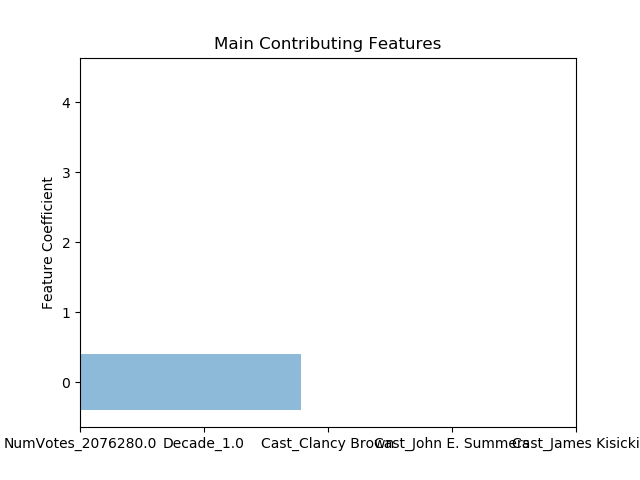
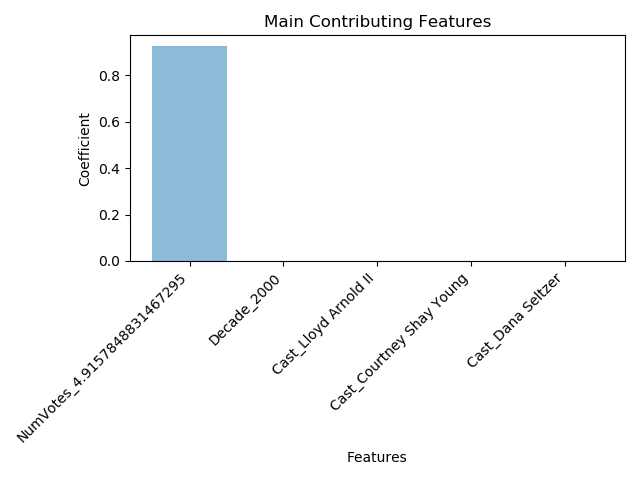
Details changed
Apply log to numVotes, changed the figure, add some details to html

diff --git a/NetflixPrize3/templates/home.html b/NetflixPrize3/templates/home.html
@@ -69,20 +69,25 @@
                 document.getElementById(div_id).innerHTML = text;
             }
             function feature_boolean(div_id) {
-                var text = document.getElementById(div_id).innerHTML
+                var text = document.getElementById(div_id).innerHTML;
+                var fieldValue;
                 if(div_id == "year") {
-                    fieldName = "startYear"
+                    fieldName = "startYear";
+                    fieldValue = {{ movieData | safe }}[fieldName];
                 }
                 else if(div_id == "rating") {
-                    fieldName = "averageRating"
+                    fieldName = "averageRating";
+                    fieldValue = {{ movieData | safe }}[fieldName];
                 }
                 else if(div_id == "numVotes") {
-                    fieldName = "numVotes"
+                    fieldName = "numVotes";
+                    fieldValue = Math.round(Math.pow(10,{{ movieData | safe }}[fieldName]));
                 }
                 text = text + "<input type=\"radio\" name=\"" + div_id + "\" value="
-                 + {{ movieData | safe }}[fieldName] + " checked" + ">Yes<br>"
+                 + {{ movieData | safe }}[fieldName] + " checked" + ">Yes - "
+                 + fieldValue + "<br>";
                 text = text + "<input type=\"radio\" name=\"" + div_id +
-                        "\" value=\"no" + "\">No<br>"
+                        "\" value=\"no" + "\">No<br>";
                 document.getElementById(div_id).innerHTML = text;
             }
         </script>
@@ -192,14 +197,11 @@
             <h4>Tree Structure:<br><pre>{{tree_structure}}</pre></h4>
         {% endif %}
 
-        <!-- {% if lime %}
-        <div id="lime"></div>
-        <script>
-        $(function(){
-          $("#lime").load("{% static 'NetflixPrize3/lime.html' %}");
-        });
-        </script>
-        {% endif %} -->
+        {% if logistic %}
+        <div>
+            <img src="{% static 'NetflixPrize3/MainFeatures.jpg' %}">
+        </div>
+        {% endif %}
 
     </body>
 </html>

diff --git a/NetflixPrize3/NetflixPrize3/views.py b/NetflixPrize3/NetflixPrize3/views.py
@@ -4,6 +4,7 @@ from django.core import serializers
 import numpy as np
 import random
 import pandas as pd
+import math
 import os
 import operator
 import json
@@ -42,6 +43,7 @@ def button(request):
         movieEntry = fetchFeatures()
         return render(request, 'home.html', {'titles':titles, 'movieData': movieEntry})
     df = pd.read_csv('IMDB_Final_Movies.csv')
+    df['numVotes']= df['numVotes'].apply(lambda x : math.log(x,10))
     title = df['primaryTitle'].tolist()
     year = df['startYear'].tolist()
     sorted_titles = json.load(open("sorted_movies_for_genres.json"))
@@ -149,8 +151,6 @@ def get_column(matrix, i):
 
 def features_construction():
     global movies_feat, col
-    # read data
-    df1 = pd.read_csv('IMDB_Final_Movies.csv')
     # data in numpy
     data = df1.values
     if not os.path.exists("feat_to_index.pkl") or not os.path.exists("index_to_feat.pkl"):

diff --git a/NetflixPrize3/NetflixPrize3/utility.py b/NetflixPrize3/NetflixPrize3/utility.py
@@ -1,5 +1,6 @@
 import matplotlib.pyplot as plt
 import numpy as np
+from matplotlib import rcParams
 
 def plot_features(sortedLogFeat):
     i = 0
@@ -11,11 +12,14 @@ def plot_features(sortedLogFeat):
         coefs.append(sortedLogFeat[i][1])
         i += 1
     y_pos = np.arange(len(xlabels))
-    plt.figure(figsize=(10,12))
+    # plt.figure(figsize=(10,12))
     plt.bar(y_pos, coefs, align='center', alpha=0.5)
-    plt.xticks(y_pos, xlabels, rotation=45)
-    plt.ylabel('Feature Coefficient')
+    rcParams.update({'figure.autolayout': True})
+    plt.xticks(y_pos, xlabels, rotation=45, horizontalalignment='right')
+    plt.ylabel('Coefficient')
+    plt.xlabel("Features")
     plt.title('Main Contributing Features')
+    # plt.setp(plt.gca().get_xticklabels(), rotation=45, horizontalalignment='right')
 
     plt.savefig('static/NetflixPrize3/MainFeatures.png')
     plt.close()
